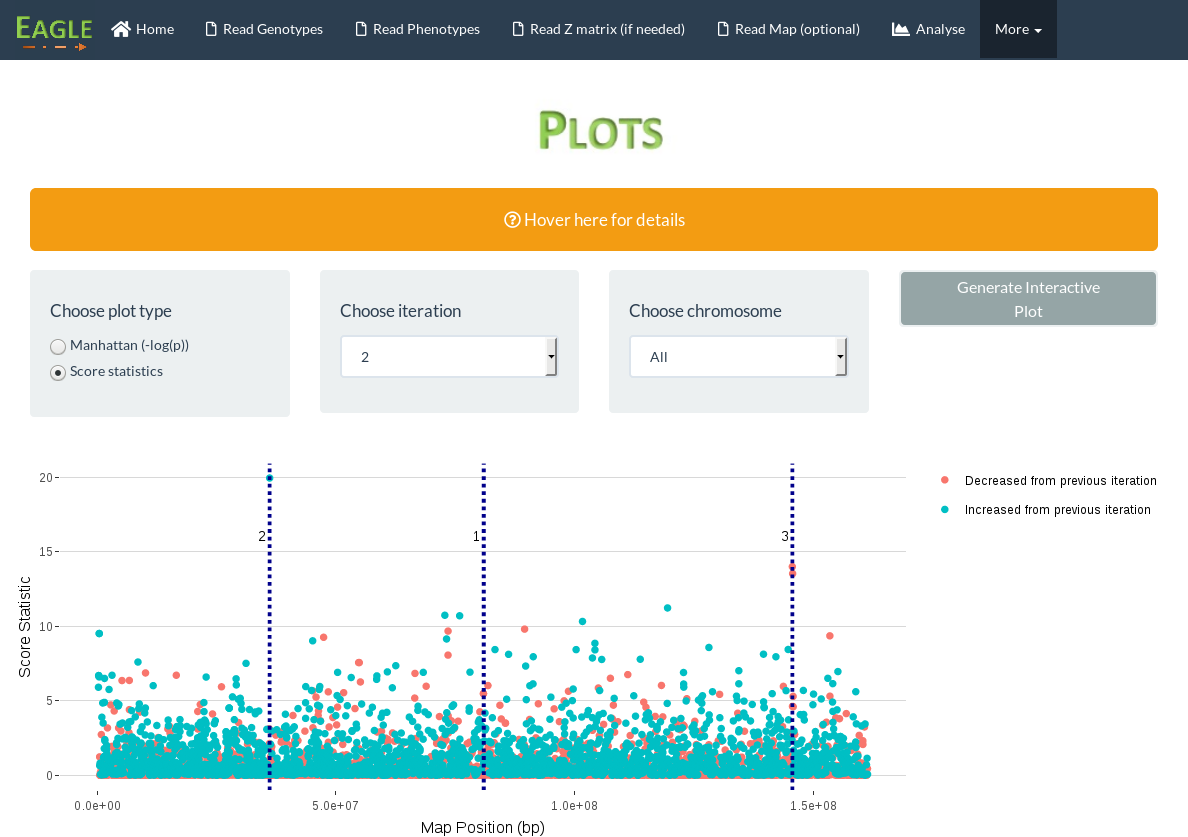
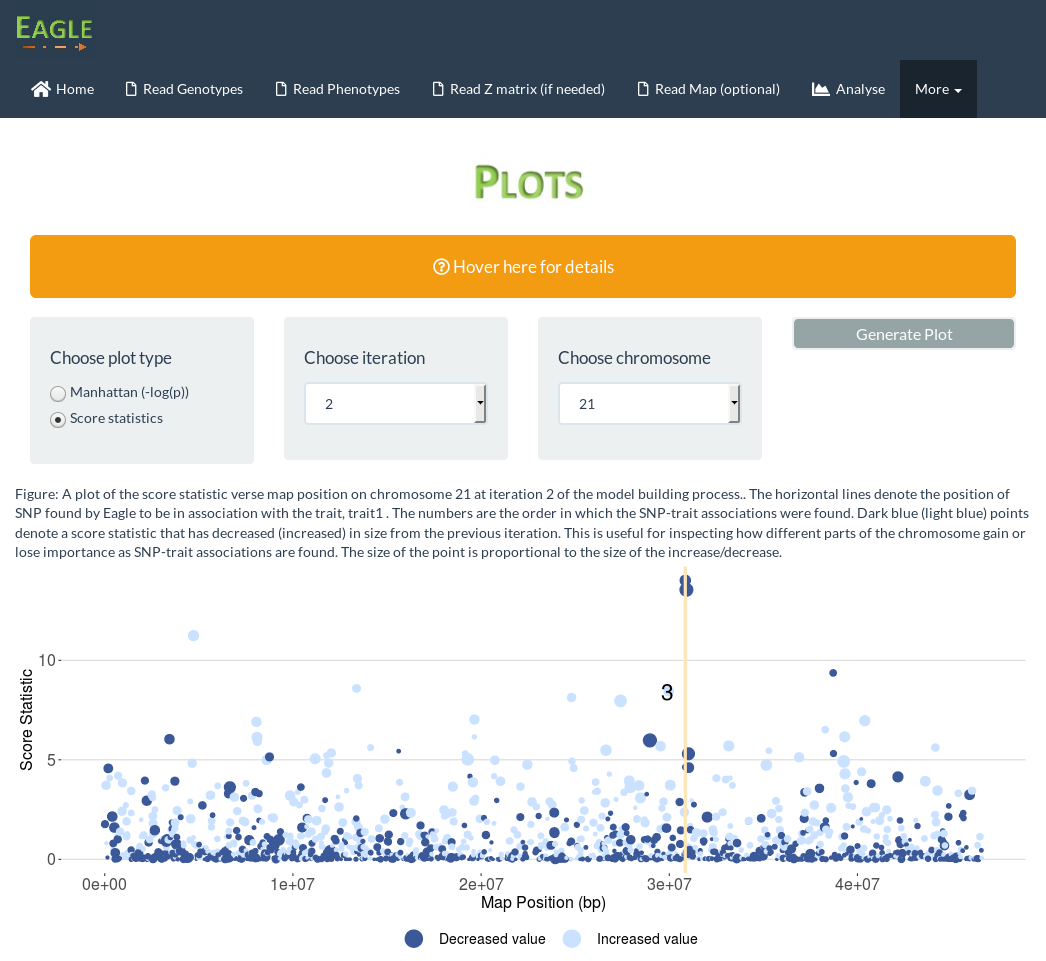
changes to news and quickstart for addition of plots to GUI
git-svn-id: svn://svn.r-forge.r-project.org/svnroot/eagle@57 edb9625f-4e0d-4859-8d74-9fd3b1da38cb

diff --git a/www/faq.html b/www/faq.html
@@ -153,6 +153,19 @@ is best to supply a marker map. </p>
 <div class="box">
 <h3>Using OpenGUI</h3>
 
+
+ <details>
+    		<summary style="font-size: 20px" > When I run OpenGUI, I see [uv_write] bad file descriptor errors start to appear in my R console</summary>
+           <p style="font-size: 16px; color: grey" > 
+           The good news is that these errors can be ignored. They have only started to appear in Version 1.5.0, 
+           with the introduction of interactive plots. The error is "random", making it difficult to isolate. 
+            The Shiny team are aware of the issue. 
+           </p>
+     </details>
+
+
+
+
    <details>
     		<summary style="font-size: 20px" > When I click on Choose File, the file browser does not start where I want it to start </summary>
            <p style="font-size: 16px; color: grey" > 
@@ -347,7 +360,7 @@ involved in the analysis will not be removed.
     <p style="font-size: 16px; color: grey" >If Eagle has not been previously installed, then start  
     R and at the R prompt, type
 <pre>
-install.packages("Eagle", dependencies=TRUE)
+install.packages("Eagle" , repos = "https://cloud.r-project.org/", dependencies=TRUE) 
 </pre> </p>
 
 <p style="font-size: 16px; color: grey">

diff --git a/www/quickstart.html b/www/quickstart.html
@@ -467,19 +467,16 @@
 	
 				<div class="box"  id="div_1.5.0"  >	
 	
-  				<h2> Interactive Plots (Version 1.5.0)  </h2>
+  				<h2> Plots (Version 1.5.0)  </h2>
                 
                 
                 
-                <p> From Version 1.5.0, an Interactive Plot facility has been added to the GUI.
+                <p> From Version 1.5.0, a Plot facility has been added to the GUI.
                 At each step of the model building process, a set of score statistics are calculated. 
                 These score statistics are used to identify the next "best" SNP in association with the trait.
                 A user can examine how the score statistics change at each iteration of the iterative model building process. 
                 </p>
                 
-                <p> A user can interact with the plot by zooming in/out, 
-                hovering over a point to display its data, and download the plot to a file. 
-                </p>
                 
                 
                 <p>

diff --git a/www/news.html b/www/news.html
@@ -138,6 +138,18 @@
 	
 
 
+<span> <strong>May 2019</strong> 
+			 <p class="myindent"> 
+			  Eagle 1.5.0 hosted on CRAN. <br/>
+			  * Significant change made to GUI - a plotting page has been add. Users can now examine the change in score statistic (used for 
+			  identifying the next "best" SNP to enter the model), across a chromosome or genome. This can be done for each step of the model 
+			  building process. 
+		
+		
+              </p>
+			  </span>
+
+
 		
 		
 		

diff --git a/www/index.html b/www/index.html
@@ -180,7 +180,7 @@
 										     width="100px" height="80px"/> </a> </li>
 										
 				<ul class="copyright">
-						<li>Last revised: Sept 2018</li>
+						<li>Last revised: May 2019</li>
 					</ul>
 
 					
